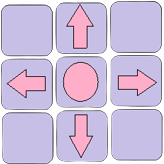
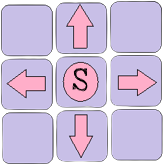
Added mobile controls2

Changed region(s): [[0.4268, 0.3963, 0.5488, 0.5793]]

diff --git a/scripts/buttonHandler.js b/scripts/buttonHandler.js
@@ -1,13 +1,5 @@
 function drawButtons() {
 
-
-    // Define button parameters
-    const buttonWidth = 50;
-    const buttonHeight = 50;
-    const buttonPadding = 10;
-    const buttonColor = 'green';
-    const buttonTextColor = 'white';
-
     // Define button objects
     const buttons = [{
             name: 'up',
@@ -50,6 +42,7 @@ function drawButtons() {
     ctx.drawImage( allImagesMap[ 'controlArrowsBg' ] , 10, 420, 150, 150);
     ctx.globalAlpha = 1;
 
+    //console.log('drawButton');
     // Listen for click events
     canvas.addEventListener('mousedown', function(event) {
         const mouseX = event.clientX - canvas.offsetLeft;
@@ -59,6 +52,7 @@ function drawButtons() {
         buttons.forEach(button => {
             if (mouseX >= button.xStart && mouseX <= button.xEnd &&
                 mouseY >= button.yStart && mouseY <= button.yEnd) {
+                    console.log('in area', button.name);
                 // Handle the button click
                 switch (button.name) {
                     case 'up':
@@ -75,11 +69,18 @@ function drawButtons() {
                         break;
                     case 'right':
                         // Move right
+                        console.log('right pressed');
                         go_right = true;
                         break;
                     case 'space':
                         // Move space
-                        space_down = true
+                        console.log('s pressed');
+                        if( currentScene == 0 ){
+                            currentScene=1;
+                        }
+                        else{
+                            space_down = true
+                        }
                         break;
                 }
             }

diff --git a/scripts/screenHandler.js b/scripts/screenHandler.js
@@ -93,6 +93,10 @@ function startGameScreen(){
     ctx.strokeText("Help Ayush to bunk from Arya Campus", textW, 268);
     ctx.fillText("Press \"S\" to start the game.", textW, 350);
     ctx.strokeText("Press \"S\" to start the game.", textW, 350);
+
+    if( isMobile ){
+        drawButtons();
+    }
     
 }
 
@@ -124,6 +128,10 @@ function drawGameOverScreen(){
     ctx.font = "40px Comic Sans MS";
     ctx.fillText("Press C to continue.", textW, 268);
     ctx.fillText("Press R to restart the game.", textW, 350);
+
+    if( isMobile ){
+        drawButtons();
+    }
     
 }
 

diff --git a/scripts/charMove.js b/scripts/charMove.js
@@ -3,6 +3,7 @@ var keyDownCount = 0;
 var currentScene = 0; 
 var gameCompleted;
 var go_right, go_left, go_up, go_down, space_down;
+var press_s=false;
 
 function charMoveHandler(){
 
@@ -39,7 +40,8 @@ function keyDownHandler(e){
         }
     }
 
-    if( keysPressed["s"] && ( gameCompleted || currentScene == 0 ) ){
+    if( ( press_s || keysPressed["s"] ) && ( gameCompleted || currentScene == 0 ) ){
+        press_s = false;
         resetGame();
         currentScene = 1;
     }

diff --git a/scripts/scene1.js b/scripts/scene1.js
@@ -33,7 +33,7 @@ function drawWardenScene1(){
 
 //Scene 1
 function scene1RestrictedAreas( x, y ){
-    console.log( x, y );
+    //console.log( x, y );
 
     //Message trigger Watchman, G Hostel, Teacher1
 
